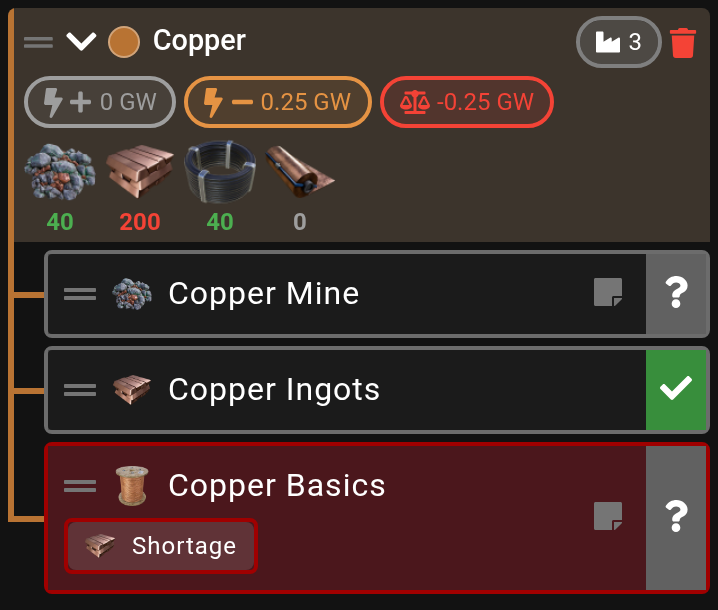
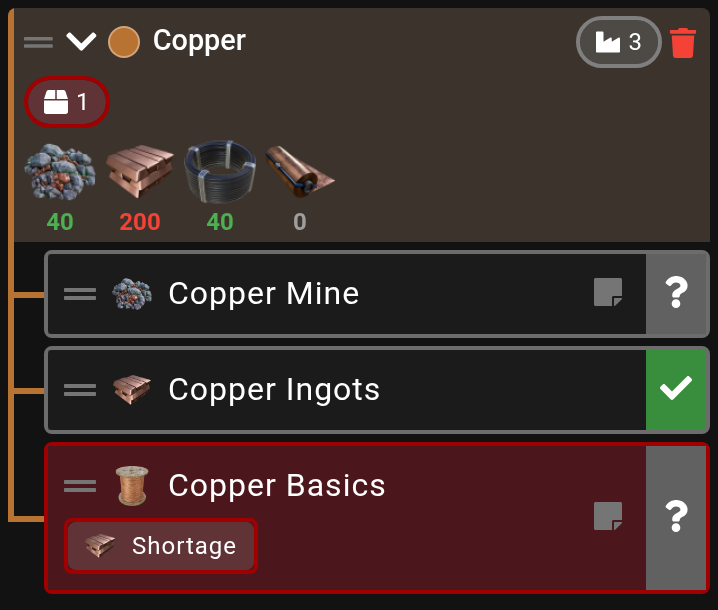
docs(web): refresh the changelog captures for the current UI
The statistics headings, the group bands and the sidebar all changed tonight —
full-size heading chips, a colour swatch and reordered chips on the band, status
tallies on the groups, and group power off by default — so every capture showing
them was out of date. Re-shot at the same framing, with the box and arrow
annotations redrawn.

Changed region(s): [[0.0306, 0.1246, 0.7967, 0.218]]

diff --git a/web/src/pages/changelog.vue b/web/src/pages/changelog.vue
@@ -103,7 +103,7 @@
           <li><b>In the planner</b>, cards sit under a collapsible band per group, Ungrouped first. Bands only appear once there is more than one section, so a plan that has never used groups looks exactly as it did.</li>
           <li><b>Colour</b> comes from a palette or the picker. Red and amber are deliberately not offered — they are the problem and warning tiers, and a group wearing one would read as a broken factory. A group gives its cards a muted header and a bright left spine, and a status still wins the border, so a factory short of copper stays red while its spine says where it lives.</li>
           <li><b>Assigning</b> is a drag, or the group chip on the factory's header, which lists the groups and can make a new one on the spot. <b>Multi-group edit</b> does the same to a whole selection, so organising an existing plan doesn't mean opening forty cards in turn.</li>
-          <li><b>Group power</b> shows generated, consumed and the balance per group, plus a <b>circuit boost</b> chip wherever Alien Power Augmenters are involved — that boost is a share of the whole plan's generation, so without it a group generating 3.3 GW read as 61 GW.</li>
+          <li><b>Group power</b> — generated, consumed and the balance per group — is off by default and switched on under <b>Options → Sidebar → Factory groups</b>. It comes with a <b>circuit boost</b> chip wherever Alien Power Augmenters are involved: that boost is a share of the whole plan's generation, so without it a group generating 3.3 GW read as 61 GW.</li>
           <li><b>Deleting a group never deletes a factory</b> — one that still holds factories asks where they should go first.</li>
         </ul>
 
